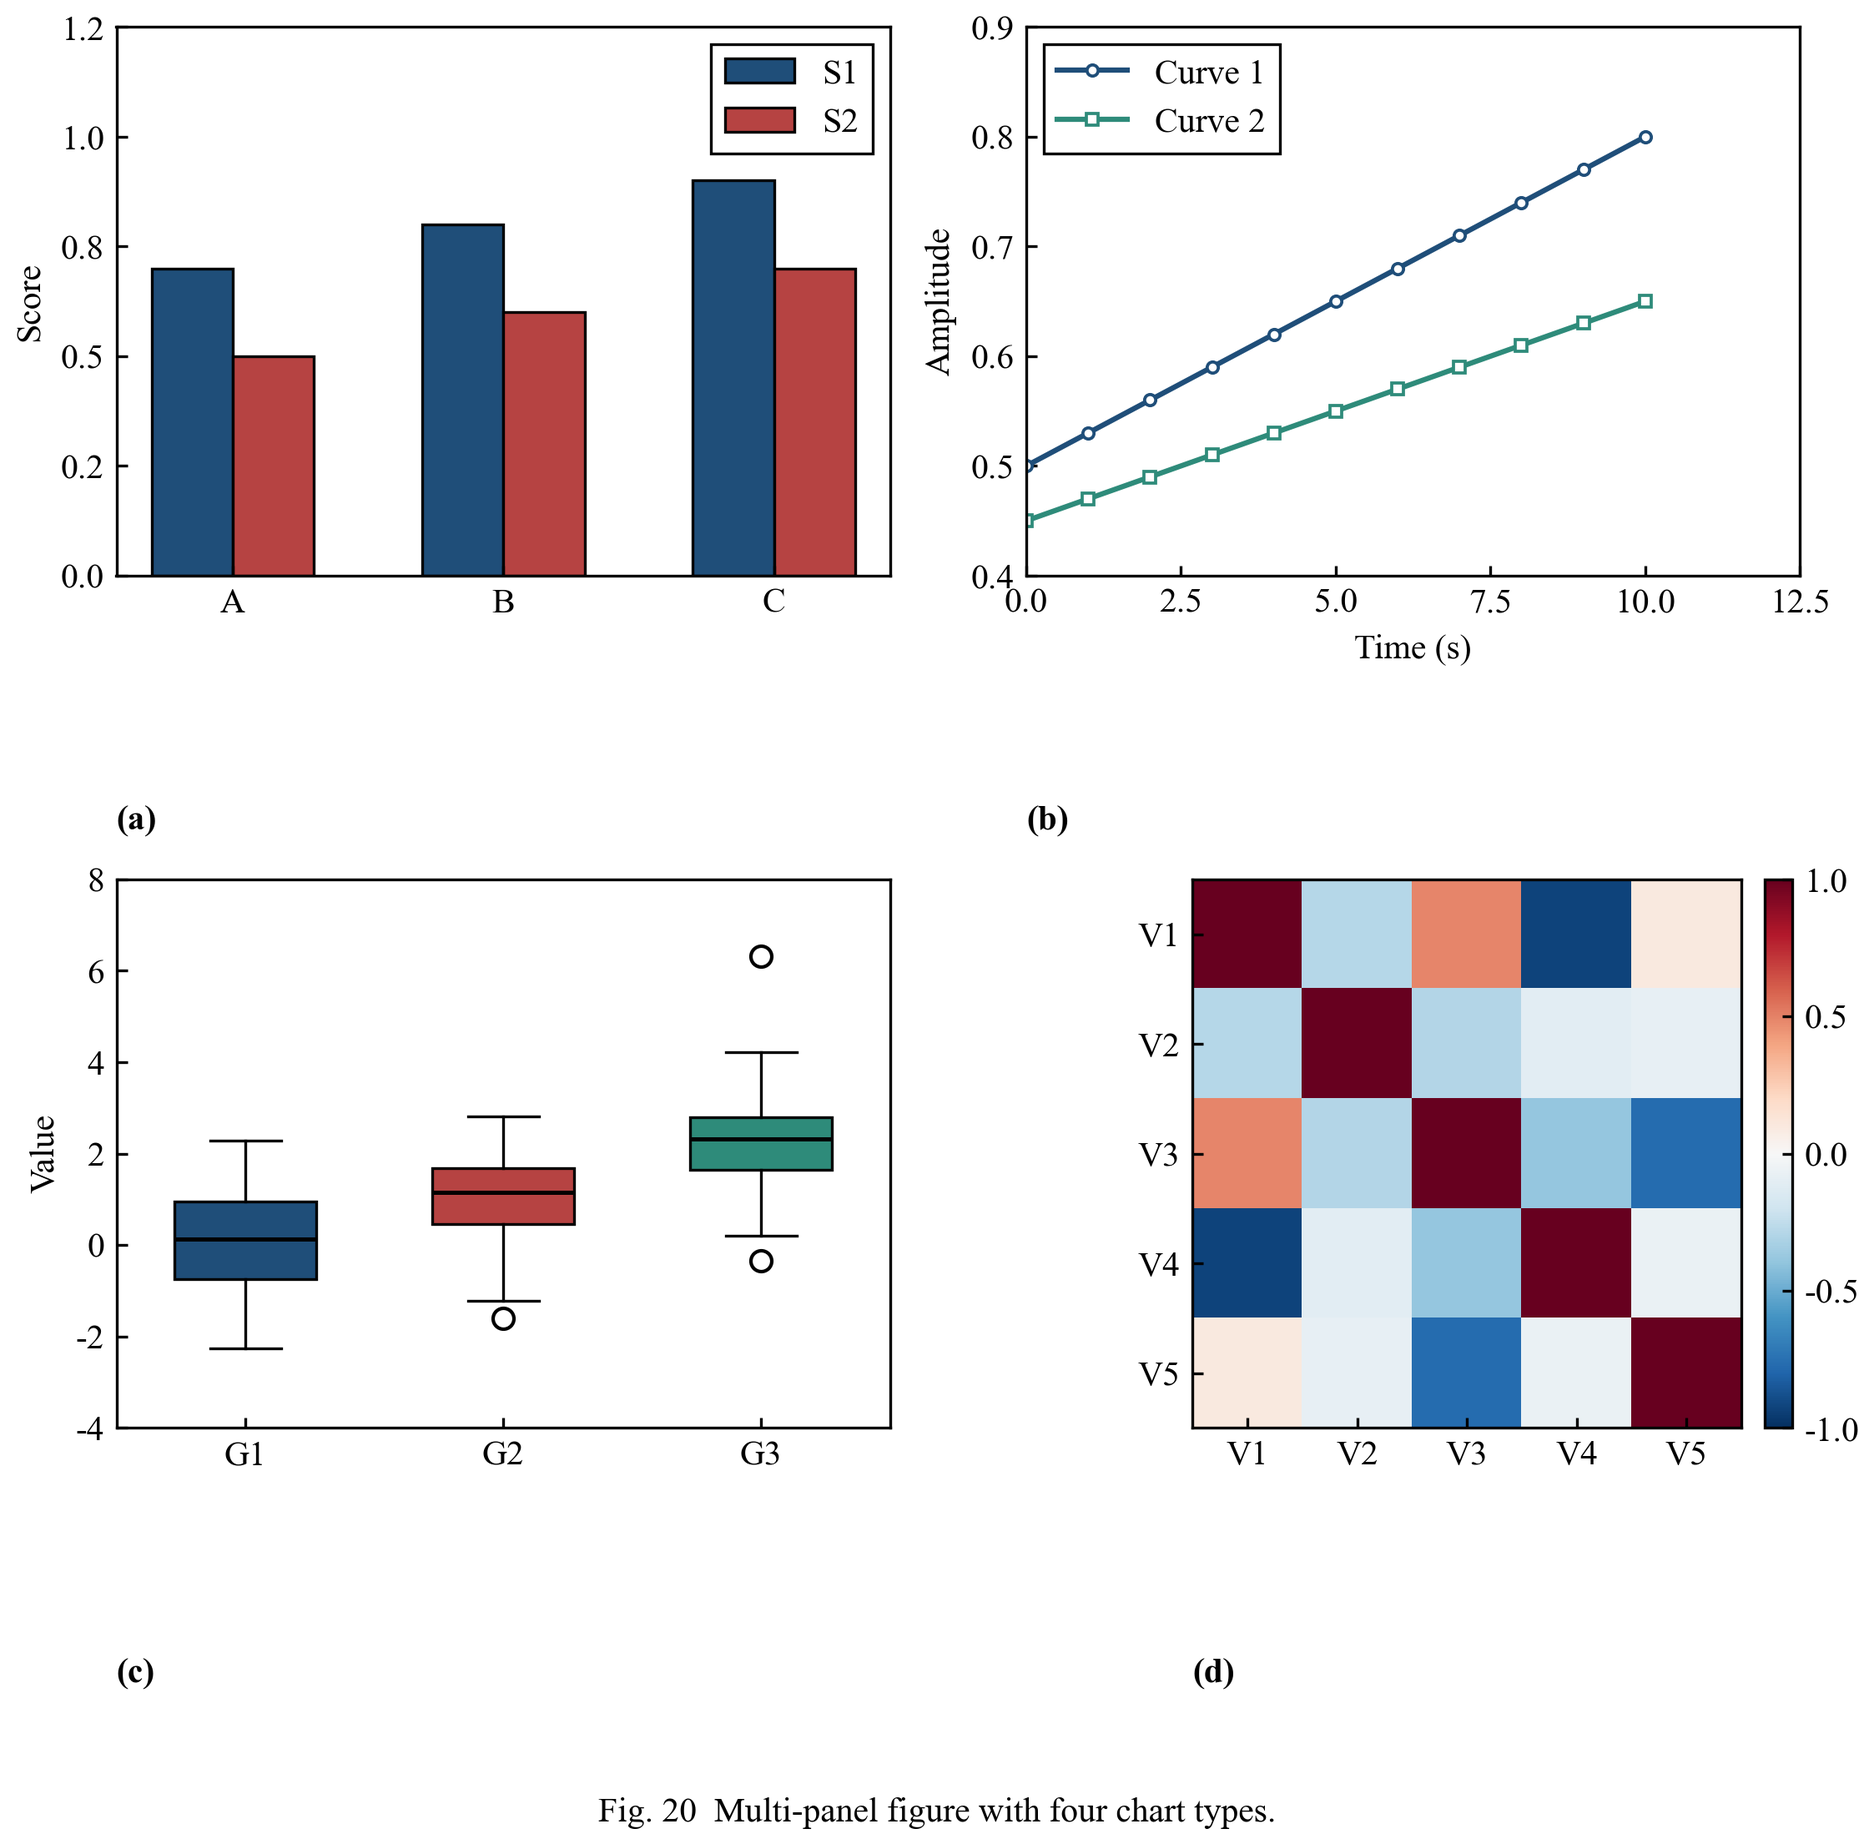
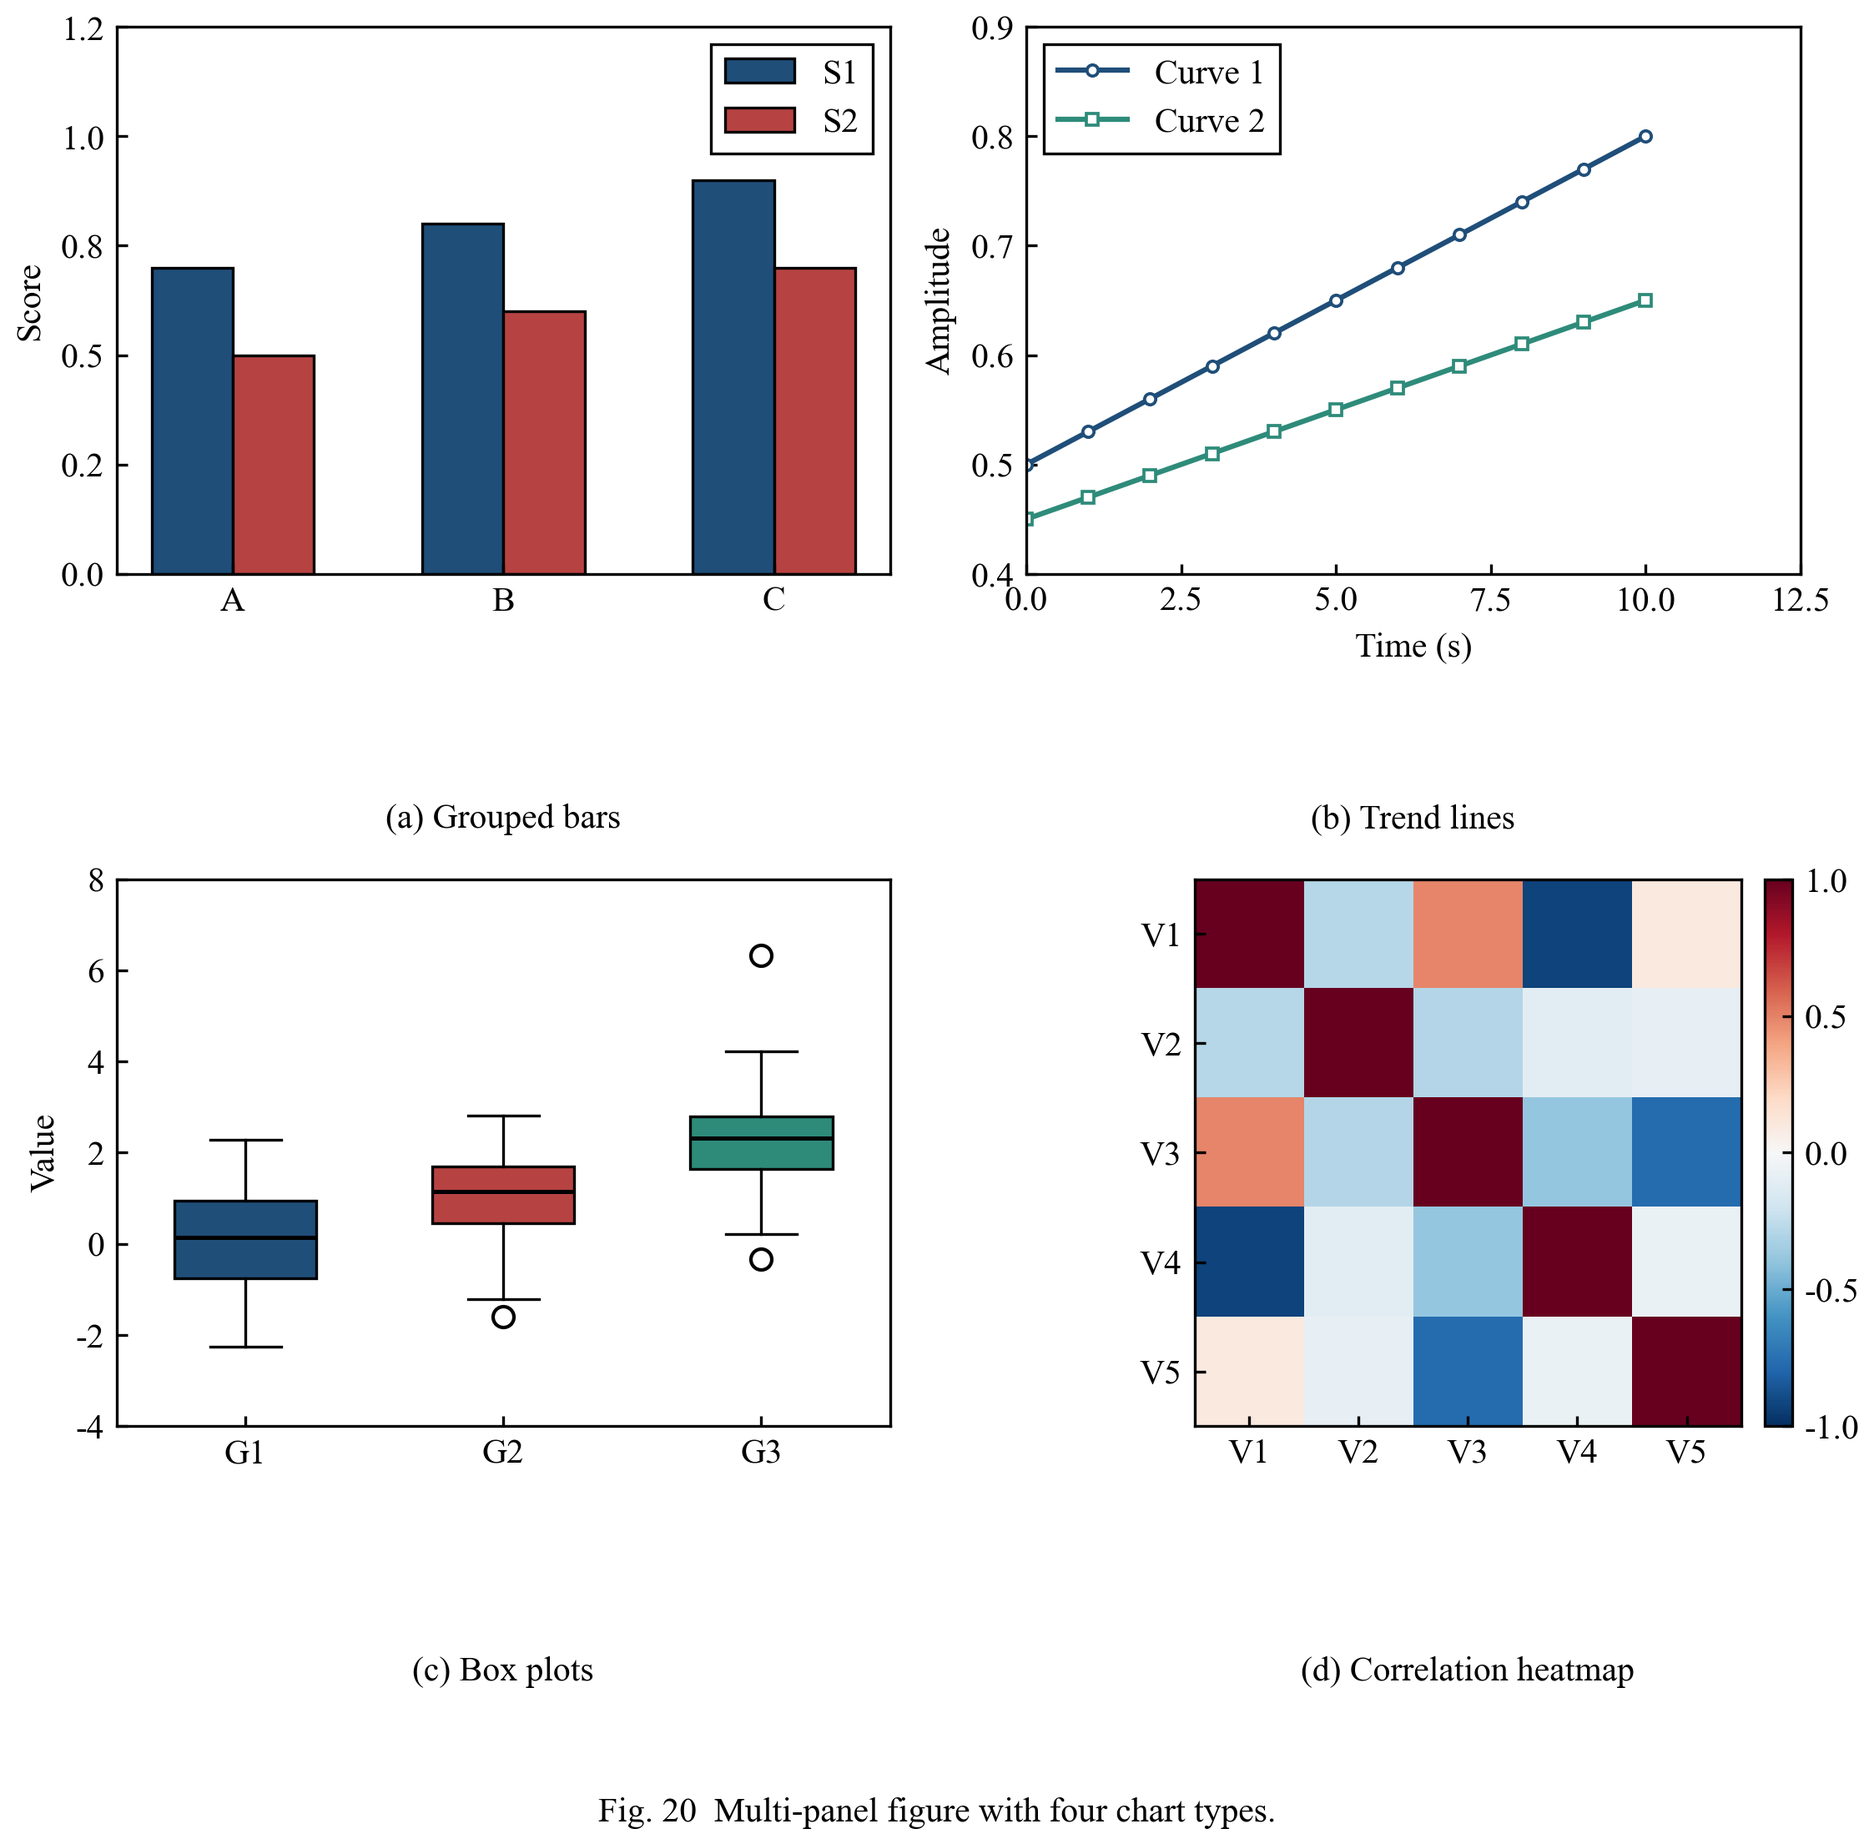
Panel labels: number + title, centered, not bold
- panel_tag(ax, tag, title=None, y, bold=False): centered under the panel,
  normal weight by default, '(a) Grouped bars' instead of a bare '(a)'
- multi_panel: all four panels now carry number + title
- column_gallery: 2x2 multi-panel is rendered in double column only, because at
  90 mm each panel is ~40 mm wide and cannot hold a 10 pt legend; the summary
  table shows a dash for its single-column width
- docs updated (SKILL.md rule 7, api.md, design-theory type scale,
  common-patterns multi-panel section, demos.md)
- verified: all four labels centred (0.0 px offset), weight normal, 10 pt

diff --git a/examples/column_gallery.py b/examples/column_gallery.py
@@ -38,6 +38,16 @@ from wxl_docx import (  # noqa: E402
 DPI = 600
 VARIANTS = [("single", "单栏", "90 mm"), ("double", "两栏", "190 mm")]
 
+#: chart types that only work at the full 190 mm width, so the single-column
+#: variant is not rendered at all (a 2x2 grid at 90 mm leaves ~40 mm per panel)
+DOUBLE_ONLY = {"multi_panel"}
+
+
+def variants_for(fig_id: str):
+    if fig_id in DOUBLE_ONLY:
+        return [v for v in VARIANTS if v[0] == "double"]
+    return VARIANTS
+
 CATEGORY_CN = {"bar": "柱状 / 条形", "line": "折线 / 面积", "rel": "关系",
                "dist": "分布", "matrix": "矩阵 / 场", "special": "特殊"}
 
@@ -85,7 +95,7 @@ def main():
     records, failures = [], 0
     for i, spec in enumerate(gallery.FIGS, start=1):
         entry = {"idx": i, "spec": spec, "variants": {}}
-        for preset, label, mm_label in VARIANTS:
+        for preset, label, mm_label in variants_for(spec["id"]):
             png, mm, report, ok = render_variant(spec, preset, figs, args.reuse)
             failures += 0 if ok else 1
             entry["variants"][preset] = {"png": png, "mm": mm, "label": label,
@@ -106,7 +116,9 @@ def main():
     add_paragraph(doc, "本文件把 WXL 样式的 20 种图型各出两版，单栏 90 mm 与两栏 "
                        "190 mm，同页上下对比。两版使用相同纵横比与相同字号，差异只"
                        "来自物理宽度，也就是 10 pt 文字在版面上占多大比例。全部图片"
-                       "按 100 % 原始尺寸插入，图内文字与正文 10 pt 字号一致。",
+                       "按 100 % 原始尺寸插入，图内文字与正文 10 pt 字号一致。"
+                       "2x2 多子图只出两栏版，因为单栏下每个面板仅约 40 mm，"
+                       "图例和子图标题都放不下。",
                   spacing=1.5, space_after=8)
     add_paragraph(doc, "选择原则：图内元素少、图例不超过三项时用单栏更省版面。"
                        "分组较多、图例较长，或需要热图、雷达图这类宽幅图形时用两栏。",
@@ -115,11 +127,12 @@ def main():
     add_heading(doc, "图型与版式一览")
     rows = []
     for rec in records:
-        single = rec["variants"]["single"]
+        single = rec["variants"].get("single")
         double = rec["variants"]["double"]
         rows.append([rec["idx"], rec["spec"]["title"],
                      CATEGORY_CN[rec["spec"]["category"]],
-                     f'{single["mm"]:.1f} mm', f'{double["mm"]:.1f} mm',
+                     f'{single["mm"]:.1f} mm' if single else "—",
+                     f'{double["mm"]:.1f} mm',
                      RECOMMEND.get(rec["spec"]["id"], "两者皆可")])
     add_three_line_table(doc, ["序号", "图型", "类别", "单栏", "两栏", "推荐"],
                          rows, col_widths_cm=[1.4, 7.6, 3.0, 2.0, 2.0, 2.6])
@@ -127,24 +140,30 @@ def main():
     for rec in records:
         add_page_break(doc)
         add_heading(doc, f'{rec["idx"]}. {rec["spec"]["title"]}')
-        for preset, _label, _mm in VARIANTS:
+        for preset, _label, _mm in variants_for(rec["spec"]["id"]):
             v = rec["variants"][preset]
             inserted = add_figure(doc, v["png"], dpi=DPI)
             add_caption(doc, f'图 {rec["idx"]}{"a" if preset == "single" else "b"}  '
                              f'{v["label"]}版式（{v["mm_label"]}，实际插入 '
                              f'{inserted:.1f} mm）')
-        warn = (rec["variants"]["single"]["report"]["warnings"]
-                + rec["variants"]["double"]["report"]["warnings"])
-        note = (f'推荐版式：{RECOMMEND.get(rec["spec"]["id"], "两者皆可")}    '
-                f'单栏自检：{"PASS" if rec["variants"]["single"]["ok"] else "FAIL"}    '
-                f'两栏自检：{"PASS" if rec["variants"]["double"]["ok"] else "FAIL"}')
+        warn = []
+        for v in rec["variants"].values():
+            warn += v["report"]["warnings"]
+        ok_all = all(v["ok"] for v in rec["variants"].values())
+        note = f'推荐版式：{RECOMMEND.get(rec["spec"]["id"], "两者皆可")}    '
+        note += "    ".join(
+            f'{v["label"]}自检：{"PASS" if v["ok"] else "FAIL"}'
+            for v in rec["variants"].values())
+        if rec["spec"]["id"] in DOUBLE_ONLY:
+            note += "    说明：该图型单栏放不下，只出两栏版"
         if warn:
             note += "    提示：" + "；".join(sorted(set(warn)))
         add_paragraph(doc, note, size=9, spacing=1.0, indent_chars=0, space_after=0)
 
     out = outdir / "WXL_chart_types_single_and_double_column.docx"
     saved = save_document(doc, out)
-    print(f"\ntypes: {len(records)}  renders: {len(records) * 2}  failures: {failures}")
+    n_renders = sum(len(r["variants"]) for r in records)
+    print(f"\ntypes: {len(records)}  renders: {n_renders}  failures: {failures}")
     print("docx:", saved, f"{saved.stat().st_size / 1024 / 1024:.2f} MB")
     sys.stdout.flush()
     return 1 if failures else 0

diff --git a/examples/gallery.py b/examples/gallery.py
@@ -533,9 +533,9 @@ def fig_dual_axis():
 
 
 @figure("multi_panel", "多子图（2x2 混合排版）", "special",
-        "四种图型拼版，子图标签放在各自面板下方，整图共用一个图题。",
+        "四种图型拼版，每个子图下方居中放编号加标题，整图共用一个图题。",
         'fig, axes = create_subplots(2, 2, figsize=WXL_FIGSIZE["double_tall"])\n'
-        'panel_tag(axes[0], "(a)", y=-0.42)\n'
+        'panel_tag(axes[0], "(a)", "Grouped bars", y=-0.42)\n'
         'add_caption(fig, "Fig. 20  Multi-panel figure.")', width="double_tall")
 def fig_multi_panel():
     fig, axes = create_subplots(2, 2, figsize=WXL_FIGSIZE["double_tall"])
@@ -551,7 +551,7 @@ def fig_multi_panel():
     ax.set_ylabel("Score")
     ax.set_ylim(0, 1.1)
     framed_legend(ax, loc="upper left")
-    panel_tag(ax, "(a)", y=-0.42)
+    panel_tag(ax, "(a)", "Grouped bars", y=-0.42)
 
     ax = axes[1]
     x = np.linspace(0, 10, 11)
@@ -562,7 +562,7 @@ def fig_multi_panel():
     ax.set_xlabel("Time (s)")
     ax.set_ylabel("Amplitude")
     framed_legend(ax, loc="upper left")
-    panel_tag(ax, "(b)", y=-0.42)
+    panel_tag(ax, "(b)", "Trend lines", y=-0.42)
 
     ax = axes[2]
     data = [RNG.normal(m, 1.0, 50) for m in (0, 1, 2)]
@@ -575,7 +575,7 @@ def fig_multi_panel():
         patch.set_facecolor(P[key])
     ax.set_xticklabels(["G1", "G2", "G3"])
     ax.set_ylabel("Value")
-    panel_tag(ax, "(c)", y=-0.42)
+    panel_tag(ax, "(c)", "Box plots", y=-0.42)
 
     ax = axes[3]
     m = RNG.uniform(-1, 1, (5, 5))
@@ -587,7 +587,7 @@ def fig_multi_panel():
     cb = fig.colorbar(im, ax=ax, fraction=0.046, pad=0.03)
     cb.ax.tick_params(direction="in", width=0.8)
     cb.outline.set_linewidth(0.8)
-    panel_tag(ax, "(d)", y=-0.42)
+    panel_tag(ax, "(d)", "Correlation heatmap", y=-0.42)
 
     add_caption(fig, "Fig. 20  Multi-panel figure with four chart types.")
     return fig

diff --git a/assets/wxl_style.py b/assets/wxl_style.py
@@ -743,10 +743,19 @@ def lock_axis_ends_all(fig, max_ticks: int = 8, min_ticks: int = 4) -> int:
     return n
 
 
-def panel_tag(ax, tag: str, y: float = -0.32):
-    """Panel label such as ``(a)`` placed just BELOW its own panel."""
-    return ax.text(0.0, y, tag, transform=ax.transAxes, ha="left", va="top",
-                   fontsize=WXL_FONTSIZE["panel"], fontweight="bold")
+def panel_tag(ax, tag: str, title: str | None = None, y: float = -0.32,
+              bold: bool = False):
+    """Panel label below its own panel, centered on the panel.
+
+    Pass a ``title`` to get ``(a) Grouped bars`` instead of a bare ``(a)``. The
+    label is centered under the panel and is NOT bold by default, so it reads as
+    a small caption rather than a heading. Use ``y=-0.42`` when the panel has an
+    x-label, and give every panel in a grid the same ``y`` so the labels line up.
+    """
+    text = f"{tag} {title}".strip() if title else tag
+    return ax.text(0.5, y, text, transform=ax.transAxes, ha="center", va="top",
+                   fontsize=WXL_FONTSIZE["panel"],
+                   fontweight="bold" if bold else "normal")
 
 
 def measure_width_mm(path, dpi: int | None = None) -> float:

diff --git a/references/common-patterns.md b/references/common-patterns.md
@@ -154,18 +154,22 @@ ax.text(x, y, f"{v:.2f}", ha="center", va="bottom")   # 10 pt by rcParams
 ```python
 fig, axes = create_subplots(2, 2, figsize=WXL_FIGSIZE["double_tall"])
 # ... draw each panel ...
-panel_tag(axes[0], "(a)", y=-0.42)
-panel_tag(axes[1], "(b)", y=-0.42)
-panel_tag(axes[2], "(c)", y=-0.42)
-panel_tag(axes[3], "(d)", y=-0.42)
+panel_tag(axes[0], "(a)", "Grouped bars", y=-0.42)
+panel_tag(axes[1], "(b)", "Trend lines", y=-0.42)
+panel_tag(axes[2], "(c)", "Box plots", y=-0.42)
+panel_tag(axes[3], "(d)", "Correlation heatmap", y=-0.42)
 add_caption(fig, "Fig. 4  Multi-panel comparison of the four settings.")
 ```
 
 - One legend per panel, not one shared legend floating outside.
 - Same limits across panels that share a quantity, so the reader can compare
   visually.
-- Panel tags go below their own panel; use `y=-0.42` when the panel has an
-  x-label.
+- Panel labels carry a number **and** a short title, are centered under their own
+  panel, and are **not bold**. Use `y=-0.42` when the panel has an x-label and the
+  same `y` for every panel in the grid so the labels line up.
+- A 2 × 2 grid only works at the full 190 mm width: at 90 mm each panel is about
+  40 mm wide, which cannot hold a 10 pt legend. Render multi-panel figures in
+  double column only.
 - Mixing types in one grid (bar + line + box + heatmap) is fine as long as the
   type scale, spine width and color semantics stay identical.
 

diff --git a/references/api.md b/references/api.md
@@ -163,10 +163,16 @@ that had to be thinned.
 Places the figure caption centered **below** the whole figure and returns the
 `Text` artist. Never use `fig.suptitle`.
 
-### panel_tag(ax, tag, y=-0.32)
+### panel_tag(ax, tag, title=None, y=-0.32, bold=False)
 
-Places `(a)`, `(b)`, ... just below the panel. With an x-label present, use
-`y=-0.42` so the tag clears the label.
+Panel label below its own panel, centered on the panel, **not bold** by default.
+Pass a `title` to get `(a) Grouped bars` instead of a bare `(a)`. Use `y=-0.42`
+when the panel has an x-label, and give every panel in a grid the same `y` so the
+labels line up.
+
+```python
+panel_tag(ax, "(a)", "Grouped bars", y=-0.42)
+```
 
 ### finalize_figure(fig, out_path, formats=None, dpi=None, close=True, pad=0.06, layout=True, target_width_mm=None, tol_mm=0.5, lock_ends=True)
 

diff --git a/SKILL.md b/SKILL.md
@@ -87,8 +87,9 @@ These rules supersede any conflicting style text in `references/` or in upstream
    colorbar axes and pie/donut axes are exempt because their ticks are
    categorical and already span the full extent.
 7. **Caption below the figure**, centered, via `add_caption`. Never
-   `fig.suptitle` and never a title on top of the axes. Panel tags `(a)`, `(b)`
-   go just below their own panel.
+   `fig.suptitle` and never a title on top of the axes. Panel labels go just
+   below their own panel, centered, **not bold**, and carry a number plus a short
+   title (`(a) Grouped bars`), not a bare `(a)`.
 8. **Deep-blue palette only.** Colors come from `WXL_PALETTE`; black, white and
    the palette are the only allowed colors. See `references/design-theory.md`
    for the semantics.

diff --git a/references/demos.md b/references/demos.md
@@ -57,7 +57,7 @@ below gives the figure id, the width preset used, and the core call to copy.
 | `radar` | Radar / polar multi-index | double | `fig.add_subplot(projection="polar"); ax.plot(theta, v, "-o")` |
 | `donut` | Donut / pie with framed legend | single | `ax.pie(vals, wedgeprops=dict(width=0.42)); ax.set_axis_off()` |
 | `dual_axis` | Dual y-axis (bars + line) | double | `ax2 = ax.twinx(); ax2.plot(...)` |
-| `multi_panel` | 2 × 2 mixed-type grid | double_tall | `create_subplots(2, 2); panel_tag(axes[0], "(a)", y=-0.42)` |
+| `multi_panel` | 2 × 2 mixed-type grid | double_tall | `create_subplots(2, 2); panel_tag(axes[0], "(a)", "Grouped bars", y=-0.42)` |
 
 ## Choosing a type
 

diff --git a/references/design-theory.md b/references/design-theory.md
@@ -58,7 +58,7 @@ Verify after saving: `measure_width_mm("figures/result.png", 600)` should return
 | Tick label | 10 pt | |
 | Legend text | 10 pt | |
 | Data annotation | 10 pt | |
-| Panel tag `(a)` | 10 pt bold | below its own panel |
+| Panel label `(a) Grouped bars` | 10 pt, not bold | centered below its own panel |
 
 Because everything is one size, hierarchy comes from **weight, color and
 position** instead of size: panel tags are bold, emphasis annotations use
